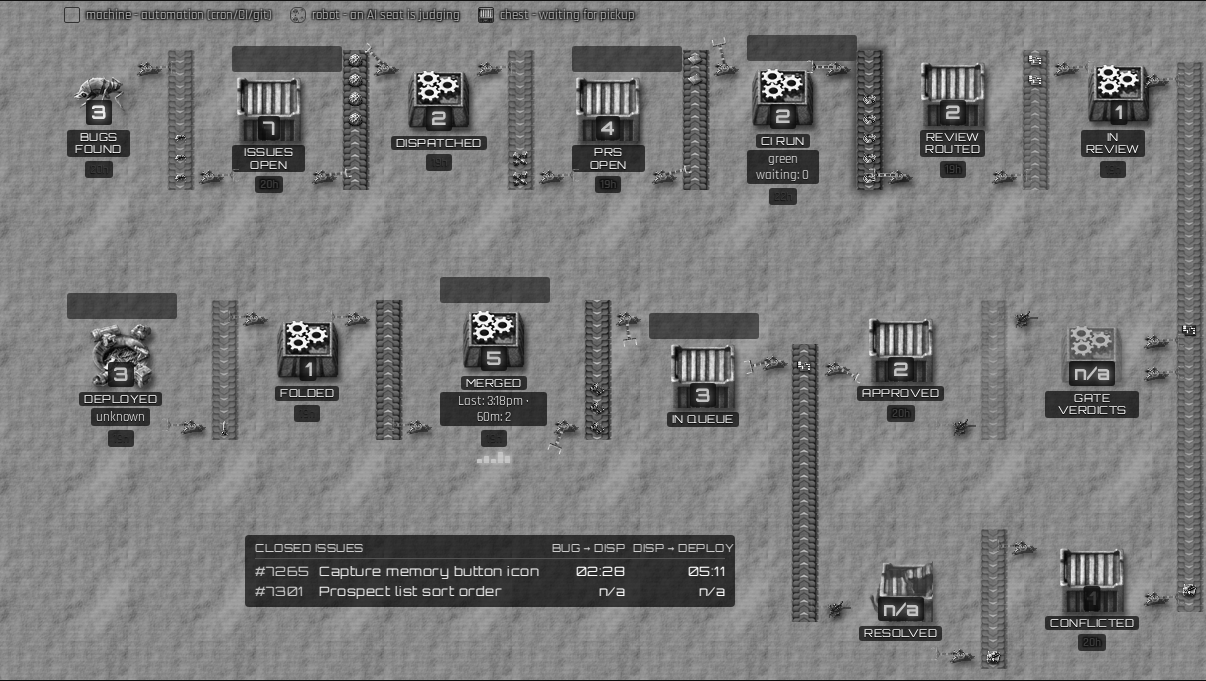
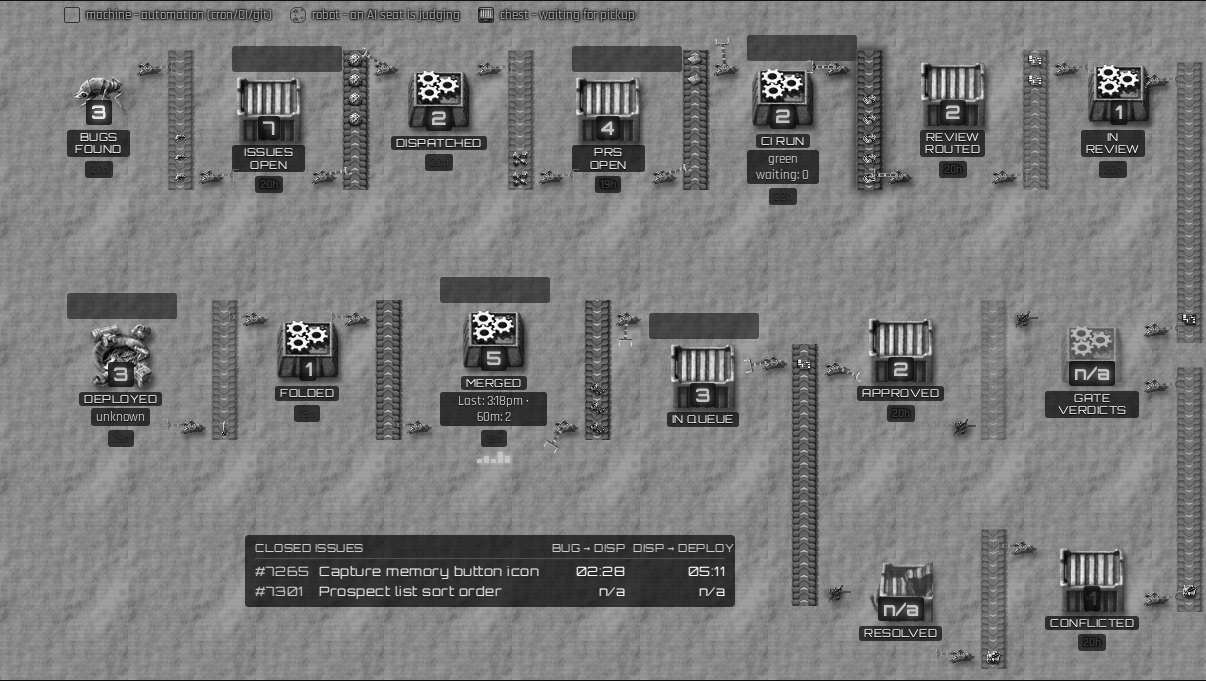
fix(monitor): split in the right column beside the gate, resolved feeder centred on its chest (Ben)
Ben, 10:35 AM CDT 2026-09-12: "move the resolved feeder up so it's level
with resolved. The long belt on the right that goes from row 1 to row 2
should actually have a split in it. look at the last screenshot i sent.
easy to miss."

- The two right-column belts (#ship-elbow-1 into gate verdicts, #ship-elbow-3
  out of it) now stop 24px short of each other, centred on the gate's
  machine - a tile of bare ground between them, as in the rig.
- The shared up-belt now ends where the resolved feeder ends, with the
  feeder centred on resolved's chest instead of hanging at its bottom edge.

Guards: split must be 16-32px and the belt tracks must not bridge it;
feeder centre within 3px of resolved's centre. Mutants (split 0, feeder at
chest bottom) both killed by named assertion.

Claude-Session: https://claude.ai/code/session_015a21LH9eqkn4oZydkWAQ3i

diff --git a/tests/dashboard-truth/factorio-belts-evidence.py b/tests/dashboard-truth/factorio-belts-evidence.py
@@ -353,18 +353,21 @@ with sync_playwright() as p:
     # last stage that runs all the way down to beside the next row's first
     # stage - its top is at the from-stage's top and its bottom reaches the
     # to-stage's bottom, not a short stub floating in the gap between rows.
-    # Ben's 10:08 AM rig: the right-hand column is ONE continuous belt from
-    # IN REVIEW down past GATE VERDICTS to CONFLICTED, with four inserters
-    # on it - two stacked beside gate verdicts (the unloader into it above
-    # the loader out of it). Built as two belts (#ship-elbow-1 ends at gate
-    # verdicts' middle, #ship-elbow-3 starts there) at the SAME x.
+    # Ben's 10:08 AM rig: the right-hand column runs from IN REVIEW down
+    # past GATE VERDICTS to CONFLICTED as TWO belts at the same x with a
+    # visible split beside the gate (Ben, 10:35 AM: "should actually have a
+    # split in it - easy to miss"): #ship-elbow-1 ends at the unloader into
+    # the gate, a tile of bare ground, then #ship-elbow-3 starts at the
+    # loader out of it. Gap centred on the gate's machine.
     def sprite_box(sq):
         return page.locator('[data-square="' + sq + '"] .ship-sprite-wrap').bounding_box()
     gate_box = sprite_box('gate verdicts')
     gate_mid = gate_box['y'] + gate_box['height'] / 2
+    split = page.evaluate('SHIP_COLUMN_SPLIT_PX')
+    assert 16 <= split <= 32, ('the column split must be a visible gap about one belt-width wide', split)
     for elbow_id, from_sq, to_sq, top_at, bottom_at in (
-            ('ship-elbow-1', 'in review', 'gate verdicts', sprite_box('in review')['y'], gate_mid),
-            ('ship-elbow-3', 'gate verdicts', 'conflicted', gate_mid, sprite_box('conflicted')['y'] + sprite_box('conflicted')['height'])):
+            ('ship-elbow-1', 'in review', 'gate verdicts', sprite_box('in review')['y'], gate_mid - split / 2),
+            ('ship-elbow-3', 'gate verdicts', 'conflicted', gate_mid + split / 2, sprite_box('conflicted')['y'] + sprite_box('conflicted')['height'])):
         elbow_box = page.locator('#' + elbow_id).bounding_box()
         # Ben: the top/bottom inserters must sit level with the two MACHINES
         # (sprites), not the stage boxes' outer edges - captions and
@@ -386,14 +389,23 @@ with sync_playwright() as p:
         assert belt_box['x'] >= flow_left and belt_box['x'] + belt_box['width'] <= flow_right, (elbow_id, 'row-end belt column clipped', belt_box, flow_left, flow_right)
     e1 = page.locator('#ship-elbow-1').bounding_box(); e3 = page.locator('#ship-elbow-3').bounding_box()
     assert abs(e1['x'] - e3['x']) < 1, ('the two column belts must share one x - one straight column', e1, e3)
-    assert abs((e1['y'] + e1['height']) - e3['y']) < 1, ('the two column belts must butt end to end', e1, e3)
+    gap = e3['y'] - (e1['y'] + e1['height'])
+    assert 16 <= gap <= 32, ('the two column belts must show a visible split beside the gate, not butt end to end', gap, e1, e3)
+    # ...and the gap is bare ground: the belts themselves (not just the
+    # arrow boxes) stop short of each other by the same amount.
+    b1 = page.locator('#ship-elbow-1 .ship-belt').bounding_box(); b3 = page.locator('#ship-elbow-3 .ship-belt').bounding_box()
+    assert b3['y'] - (b1['y'] + b1['height']) >= 16, ('belt tracks must not bridge the split', b1, b3)
 
     # The shared up-belt (#ship-elbow-4): top level with IN LINE's machine
     # (its unloader), bottom at RESOLVED's machine bottom (the feeder, at the
     # belt's start), approved's loader level with APPROVED's machine.
     e4 = page.locator('#ship-elbow-4').bounding_box()
     inline_box, approved_box, resolved_box = sprite_box('in line'), sprite_box('approved'), sprite_box('resolved')
-    assert abs((e4['y'] + e4['height']) - (resolved_box['y'] + resolved_box['height'])) < 6, ('shared belt bottom not at resolved sprite bottom', e4, resolved_box)
+    # Ben (10:35 AM): the resolved feeder is CENTRED on resolved's chest,
+    # and the belt starts right there (it ends where the feeder ends).
+    feeder_ins0 = page.locator('#ship-elbow-4 .ship-arrow-feeder .ship-inserter').bounding_box()
+    assert abs((feeder_ins0['y'] + feeder_ins0['height'] / 2) - (resolved_box['y'] + resolved_box['height'] / 2)) < 3, ('resolved feeder not centred on resolved', feeder_ins0, resolved_box)
+    assert abs((e4['y'] + e4['height']) - (feeder_ins0['y'] + feeder_ins0['height'])) < 3, ('shared belt does not end at the feeder', e4, feeder_ins0)
     load_ins = page.locator('#ship-elbow-4 > .ship-inserter').nth(0).bounding_box()
     unload_ins = page.locator('#ship-elbow-4 > .ship-inserter').nth(1).bounding_box()
     feeder_ins = page.locator('#ship-elbow-4 .ship-arrow-feeder .ship-inserter').bounding_box()

diff --git a/queue_router.py b/queue_router.py
@@ -9529,6 +9529,9 @@ function positionShipYard() {
 // below the row (row1/row2 now carry the extra margin-bottom for exactly
 // this) instead of overlapping its bottom edge by a few px.
 window.addEventListener('resize', () => positionShipElbows());
+// The bare-ground gap between the two right-column belts beside gate
+// verdicts (Ben's rig: about a tile - the belt's own width - between them).
+const SHIP_COLUMN_SPLIT_PX = 24;
 function positionShipElbows() {
     const wrap = document.getElementById('ship-flow') && document.getElementById('ship-flow').parentElement;
     if (!wrap) return;
@@ -9570,12 +9573,18 @@ function positionShipElbows() {
         elbow.style.height = (bottom - top) + 'px';
         elbow.style.left = (left - wrapRect.left) + 'px';
     };
+    // Ben (10:35 AM): "the long belt on the right should actually have a
+    // split in it - easy to miss." In his rig the two belts are separate
+    // pieces with about a tile of bare ground between them beside gate
+    // verdicts: the upper one ENDS at the unloader into the gate, the lower
+    // one STARTS at the loader out of it. So: a real gap, centred on the
+    // gate's machine, roughly the belt's own width.
     const inReview = sprite('in review'), gate = sprite('gate verdicts'), conflicted = sprite('conflicted');
     if (inReview && gate && conflicted) {
         const x = Math.max(inReview.right, gate.right, conflicted.right) + 4;
         const gateMid = gate.top + gate.height / 2;
-        column('ship-elbow-1', inReview.top, gateMid, x);
-        column('ship-elbow-3', gateMid, conflicted.bottom, x);
+        column('ship-elbow-1', inReview.top, gateMid - SHIP_COLUMN_SPLIT_PX / 2, x);
+        column('ship-elbow-3', gateMid + SHIP_COLUMN_SPLIT_PX / 2, conflicted.bottom, x);
     }
     // The shared up-belt: from beside RESOLVED (row 3, its start) up past
     // APPROVED to IN LINE (row 2, its end), in the column both rows reserve
@@ -9595,7 +9604,11 @@ function positionShipElbows() {
         // higher is where the belt begins.
         const top = Math.min(inLine.top, approved.bottom - insH);
         const slotRect = slot.getBoundingClientRect();
-        column('ship-elbow-4', top, resolved.bottom, slotRect.left + (slotRect.width - shared.offsetWidth) / 2);
+        // Ben (10:35 AM): "move the resolved feeder up so it's level with
+        // resolved" - the feeder sits at the belt's very start (bottom), so
+        // the belt ends where the feeder, centred on resolved's chest, ends.
+        const bottom = resolved.top + resolved.height / 2 + insH / 2;
+        column('ship-elbow-4', top, bottom, slotRect.left + (slotRect.width - shared.offsetWidth) / 2);
         shared.style.setProperty('--load-top', (approved.bottom - insH - top) + 'px');
         shared.style.setProperty('--unload-top', (inLine.top - top) + 'px');
     }
